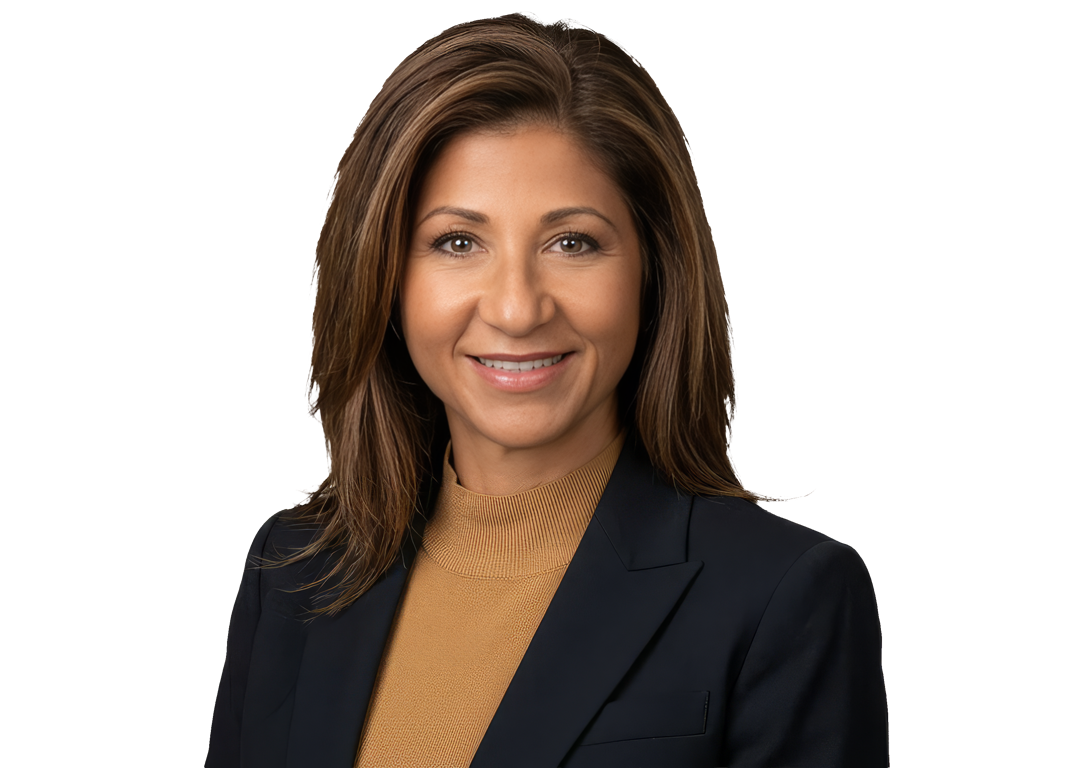
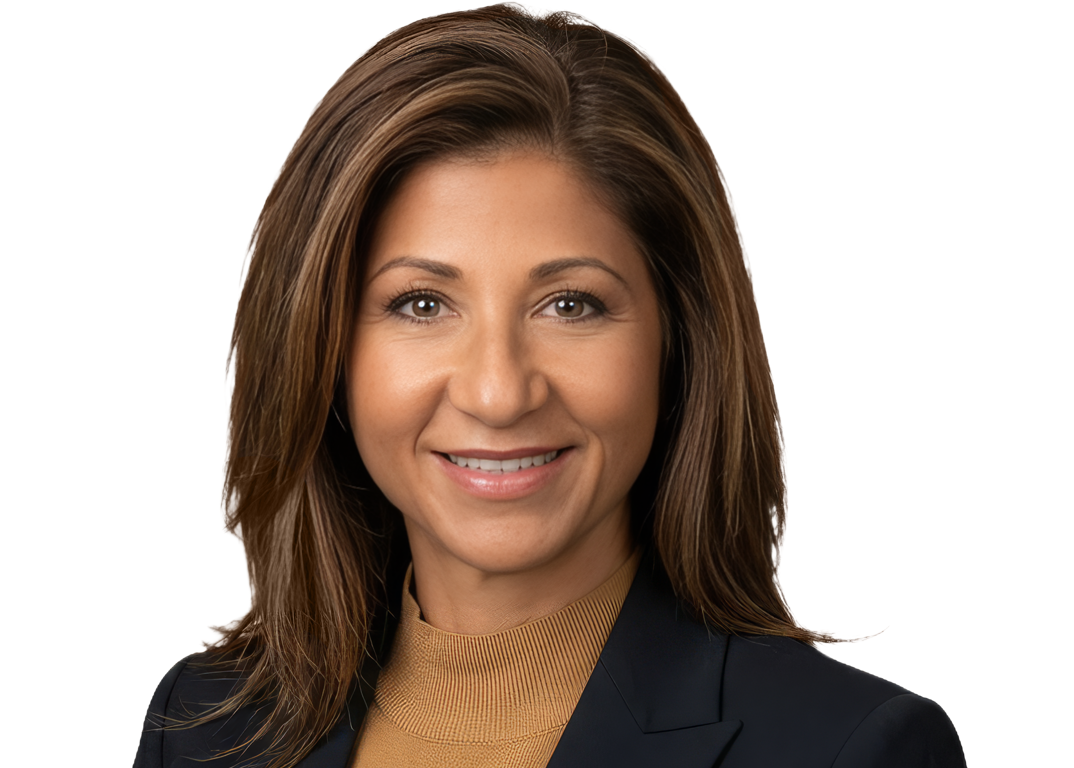
Update contact card spacing & Mary photo asset

diff --git a/src/components/HeroVideoPlayer.tsx b/src/components/HeroVideoPlayer.tsx
@@ -2,6 +2,8 @@
 "use client";
 
 import { useState, useRef, useEffect, useCallback, useSyncExternalStore, useMemo } from "react";
+import gsap from "gsap";
+import { ScrollTrigger } from "gsap/ScrollTrigger";
 const emptySubscribe = () => () => { };
 
 // Safe SSR-compatible desktop media query using useSyncExternalStore
@@ -54,6 +56,13 @@ function hexToRgba(hex: string, alpha: number): string {
   const b = num & 255;
   return `rgba(${r}, ${g}, ${b}, ${alpha.toFixed(2)})`;
 }
+
+const PARALLAX_PRESETS = [
+  { name: "Subtle", range: 6 },
+  { name: "Medium", range: 14 },
+  { name: "Dramatic", range: 22 },
+  { name: "Extreme", range: 30 },
+];
 
 const GRADIENT_PRESETS = [
   { name: "My Custom Choice", height: 46, opacity: 0.95, midstop: 37, color: "#000000" },
@@ -120,6 +129,19 @@ export default function HeroVideoPlayer({ children }: { children?: ReactNode }) 
   const [isGradUiOpen, setIsGradUiOpen] = useState(false);
   const [gradCopied, setGradCopied] = useState(false);
 
+  // ── Parallax Customizer states ───────────────────────────────────────────
+  // range: how far the background video drifts (± yPercent) as the hero
+  // scrolls through the viewport. scrub: how much the drift lags behind the
+  // actual scroll position (0 = instant, higher = smoother/laggier).
+  // foreground: when on, the thumbs/vinyl row drifts the opposite direction
+  // at half the range for a stronger sense of layered depth.
+  const [pxRange, setPxRange] = useState(14);
+  const [pxScrub, setPxScrub] = useState(0.6);
+  const [pxForeground, setPxForeground] = useState(true);
+  const [isPxUiOpen, setIsPxUiOpen] = useState(false);
+  const [pxCopied, setPxCopied] = useState(false);
+  const foregroundRef = useRef<HTMLDivElement>(null);
+
   useEffect(() => {
     const savedColor = localStorage.getItem("7h_tint_color");
     const savedOpacity = localStorage.getItem("7h_tint_opacity");
@@ -139,6 +161,15 @@ export default function HeroVideoPlayer({ children }: { children?: ReactNode }) 
     if (savedGradO) setGradOpacity(parseFloat(savedGradO));
     if (savedGradM) setGradMidstop(parseFloat(savedGradM));
     if (savedGradC) setGradColor(savedGradC);
+
+    // Load parallax settings
+    const savedPxRange = localStorage.getItem("7h_hero_parallax_range");
+    const savedPxScrub = localStorage.getItem("7h_hero_parallax_scrub");
+    const savedPxFg = localStorage.getItem("7h_hero_parallax_fg");
+
+    if (savedPxRange) setPxRange(parseFloat(savedPxRange));
+    if (savedPxScrub) setPxScrub(parseFloat(savedPxScrub));
+    if (savedPxFg) setPxForeground(savedPxFg === "true");
   }, []);
 
   const updateGradHeight = (h: number) => {
@@ -163,6 +194,31 @@ export default function HeroVideoPlayer({ children }: { children?: ReactNode }) 
     navigator.clipboard.writeText(cssText);
     setGradCopied(true);
   };
+
+  const updatePxRange = (r: number) => {
+    setPxRange(r);
+    localStorage.setItem("7h_hero_parallax_range", r.toString());
+  };
+  const updatePxScrub = (s: number) => {
+    setPxScrub(s);
+    localStorage.setItem("7h_hero_parallax_scrub", s.toString());
+  };
+  const updatePxForeground = (on: boolean) => {
+    setPxForeground(on);
+    localStorage.setItem("7h_hero_parallax_fg", on.toString());
+  };
+
+  const copyPxSettings = () => {
+    const snippet = `// Hero parallax settings\nrange: ${pxRange}, // yPercent amplitude (background drift)\nscrub: ${pxScrub}, // scroll-smoothing lag\nforegroundCounterParallax: ${pxForeground},`;
+    navigator.clipboard.writeText(snippet);
+    setPxCopied(true);
+  };
+
+  useEffect(() => {
+    if (!pxCopied) return;
+    const t = setTimeout(() => setPxCopied(false), 2000);
+    return () => clearTimeout(t);
+  }, [pxCopied]);
 
   const [VinylComp, setVinylComp] = useState<ComponentType<any> | null>(null);
   const [YTComp, setYTComp] = useState<ComponentType<any> | null>(null);
@@ -341,6 +397,76 @@ export default function HeroVideoPlayer({ children }: { children?: ReactNode }) 
     };
   }, [isYouTube, videoSrc]);
 
+  // ── Parallax: background video drifts slower than the page as you scroll ────
+  // Desktop-only (matches the perf gating used elsewhere in this component) and
+  // respects prefers-reduced-motion. Depth, smoothing, and the foreground
+  // counter-drift are all live-tunable via the Parallax Customizer panel below
+  // (pxRange / pxScrub / pxForeground), so this effect re-runs whenever those
+  // change. The video's scale grows with pxRange so the translate range never
+  // exposes empty edges inside the overflow-hidden #hero section.
+  useEffect(() => {
+    if (typeof window === "undefined" || !isDesktop || isYouTube) return;
+    if (window.matchMedia("(prefers-reduced-motion: reduce)").matches) return;
+
+    const video = videoRef.current;
+    if (!video) return;
+
+    gsap.registerPlugin(ScrollTrigger);
+
+    // Extra space needed on each side of the video, as a fraction of its own
+    // height, is pxRange/100 (the max translate distance). A small buffer
+    // (1.05x) keeps the scaled edge from ever peeking into view.
+    const scale = 1 + (pxRange / 50) * 1.05;
+    const halfRange = pxRange / 2;
+
+    const ctx = gsap.context(() => {
+      // GSAP writes a single inline `transform`, which would otherwise clobber
+      // the Tailwind `scale-[1.3]` fallback class (inline style always wins
+      // over the stylesheet rule). Keeping scale in both the "from" and "to"
+      // tween values means GSAP owns the whole transform and the zoom never
+      // drops once this effect takes over.
+      gsap.fromTo(
+        video,
+        { yPercent: -pxRange, scale },
+        {
+          yPercent: pxRange,
+          scale,
+          ease: "none",
+          scrollTrigger: {
+            trigger: "#hero",
+            start: "top top",
+            end: "bottom top",
+            scrub: pxScrub,
+          },
+        }
+      );
+
+      // Foreground counter-drift: the thumbs/vinyl row moves the opposite
+      // direction at half the amplitude, so it visually separates from the
+      // background layer instead of scrolling in lockstep with it.
+      if (pxForeground && foregroundRef.current) {
+        gsap.fromTo(
+          foregroundRef.current,
+          { yPercent: halfRange },
+          {
+            yPercent: -halfRange,
+            ease: "none",
+            scrollTrigger: {
+              trigger: "#hero",
+              start: "top top",
+              end: "bottom top",
+              scrub: pxScrub,
+            },
+          }
+        );
+      }
+
+      ScrollTrigger.refresh();
+    });
+
+    return () => ctx.revert();
+  }, [isDesktop, isYouTube, videoSrc, pxRange, pxScrub, pxForeground]);
+
   const ctxValue: VideoSnapshotContextValue = useMemo(
     () => ({ snapshots }),
     [snapshots]
@@ -414,7 +540,7 @@ export default function HeroVideoPlayer({ children }: { children?: ReactNode }) 
           muted
           loop
           playsInline
-          className="absolute inset-0 w-full h-full object-cover z-0 pointer-events-none scale-[1.08]"
+          className="absolute inset-0 w-full h-full object-cover z-0 pointer-events-none scale-[1.3]"
         >
           <source src={videoSrc} type="video/mp4" />
           <track kind="captions" />
@@ -623,8 +749,151 @@ export default function HeroVideoPlayer({ children }: { children?: ReactNode }) 
         </div>
       )}
 
+      {/* ── Parallax Customizer Floating Panel (Dev/Tester Only) ── */}
+      {mounted && localStorage.getItem("7h_tint_tester") === "true" && (
+        <div className="absolute top-[160px] right-6 z-40 md:right-8 flex flex-col items-end">
+          {!isPxUiOpen ? (
+            <button aria-label="Action button"
+              onClick={() => setIsPxUiOpen(true)}
+              className="w-10 h-10 rounded-full bg-black/60 backdrop-blur-md border border-white/15 flex items-center justify-center cursor-pointer hover:bg-black/85 hover:scale-105 active:scale-95 transition-colors shadow-[0_4px_20px_rgba(0,0,0,0.4)] group"
+              title="Open Parallax Customizer"
+            >
+              <svg
+                width="18"
+                height="18"
+                viewBox="0 0 24 24"
+                fill="none"
+                stroke="currentColor"
+                strokeWidth="2"
+                strokeLinecap="round"
+                strokeLinejoin="round"
+                className="text-white/80 group-hover:text-[var(--color-accent)] transition-colors duration-300"
+              >
+                <polygon points="12 2 2 7 12 12 22 7 12 2" />
+                <polyline points="2 17 12 22 22 17" />
+                <polyline points="2 12 12 17 22 12" />
+              </svg>
+            </button>
+          ) : (
+            <div
+              className="w-[280px] bg-black/75 backdrop-blur-xl border border-white/10 p-4 shadow-[0_20px_50px_rgba(0,0,0,0.6)] flex flex-col gap-4 select-none animate-[scaleIn_0.2s_ease-out] text-left"
+            >
+              {/* Header */}
+              <div className="flex items-center justify-between border-b border-white/5 pb-2">
+                <div className="flex flex-col">
+                  <span className="font-[family-name:var(--font-rockstar)] text-[var(--font-size-2xs)] font-black uppercase tracking-wider  text-[var(--color-accent)]">
+                    Parallax Tester
+                  </span>
+                  <span className="text-[var(--font-size-4xs)] text-white/40 uppercase font-semibold">
+                    Tune the hero scroll depth
+                  </span>
+                </div>
+                <button aria-label="Action button"
+                  onClick={() => setIsPxUiOpen(false)}
+                  className="w-6 h-6 rounded-full hover:bg-white/10 flex items-center justify-center text-white/50 hover:text-white transition-colors cursor-pointer"
+                >
+                  <svg width="14" height="14" viewBox="0 0 24 24" fill="none" stroke="currentColor" strokeWidth="2.5"><line x1="18" y1="6" x2="6" y2="18"></line><line x1="6" y1="6" x2="18" y2="18"></line></svg>
+                </button>
+              </div>
+
+              {/* Presets */}
+              <div className="space-y-1.5">
+                <span className="text-[var(--font-size-3xs)] font-extrabold text-white/45 uppercase tracking-wider block">Presets</span>
+                <div className="flex flex-wrap gap-1.5">
+                  {PARALLAX_PRESETS.map((preset) => (
+                    <button aria-label="Action button"
+                      key={preset.name}
+                      onClick={() => updatePxRange(preset.range)}
+                      className={`px-2 py-1 text-[var(--font-size-4xs)] font-black uppercase rounded border transition-colors cursor-pointer ${pxRange === preset.range
+                        ? "bg-[var(--color-purple-primary)] border-[var(--color-border-purple)] text-[var(--color-text-main)] shadow-[0_0_8px_var(--color-purple-glow)]"
+                        : "bg-white/5 border-white/5 text-white/60 hover:bg-white/10 hover:border-white/10"
+                        }`}
+                    >
+                      {preset.name}
+                    </button>
+                  ))}
+                </div>
+              </div>
+
+              {/* Depth (range) Slider */}
+              <div className="space-y-1.5">
+                <div className="flex justify-between text-[var(--font-size-3xs)] font-extrabold text-white/45 uppercase tracking-wider">
+                  <span>Depth</span>
+                  <span className=" text-[var(--color-accent)] font-mono font-black">±{pxRange}%</span>
+                </div>
+                <input aria-label="Input field"
+                  type="range"
+                  min="0"
+                  max="30"
+                  step="1"
+                  value={pxRange}
+                  onChange={(e) => updatePxRange(parseFloat(e.target.value))}
+                  className="w-full accent-amber-500 bg-white/10 h-1.5 rounded-lg appearance-none cursor-pointer"
+                />
+              </div>
+
+              {/* Scrub (smoothing) Slider */}
+              <div className="space-y-1.5">
+                <div className="flex justify-between text-[var(--font-size-3xs)] font-extrabold text-white/45 uppercase tracking-wider">
+                  <span>Smoothing</span>
+                  <span className=" text-[var(--color-accent)] font-mono font-black">{pxScrub.toFixed(1)}s</span>
+                </div>
+                <input aria-label="Input field"
+                  type="range"
+                  min="0"
+                  max="2"
+                  step="0.1"
+                  value={pxScrub}
+                  onChange={(e) => updatePxScrub(parseFloat(e.target.value))}
+                  className="w-full accent-amber-500 bg-white/10 h-1.5 rounded-lg appearance-none cursor-pointer"
+                />
+              </div>
+
+              {/* Foreground Counter-Drift Toggle */}
+              <button aria-label="Action button"
+                onClick={() => updatePxForeground(!pxForeground)}
+                className={`w-full flex items-center justify-between px-3 py-2 rounded border transition-colors cursor-pointer ${pxForeground
+                  ? "bg-[var(--color-purple-primary)]/20 border-[var(--color-border-purple)] text-white"
+                  : "bg-white/5 border-white/5 text-white/60 hover:bg-white/10"
+                  }`}
+              >
+                <span className="text-[var(--font-size-3xs)] font-extrabold uppercase tracking-wider">Foreground Counter-Drift</span>
+                <span className={`w-8 h-4 rounded-full relative transition-colors ${pxForeground ? "bg-[var(--color-accent)]" : "bg-white/20"}`}>
+                  <span className={`absolute top-0.5 w-3 h-3 rounded-full bg-white transition-transform ${pxForeground ? "translate-x-4" : "translate-x-0.5"}`} />
+                </span>
+              </button>
+
+              {/* Active Values HUD */}
+              <div className="bg-white/[0.02] border border-white/5 rounded-lg p-2 text-[var(--font-size-4xs)] font-mono text-white/40 space-y-0.5">
+                <div>Depth: <span className="text-white font-bold">±{pxRange}%</span></div>
+                <div>Smoothing: <span className="text-white font-bold">{pxScrub.toFixed(1)}s</span></div>
+                <div>Foreground drift: <span className="text-white font-bold">{pxForeground ? "on" : "off"}</span></div>
+              </div>
+
+              {/* Copy Settings Button */}
+              <button aria-label="Action button"
+                onClick={copyPxSettings}
+                className="w-full py-2 bg-gradient-to-r from-amber-500 to-orange-600 hover:from-amber-600 hover:to-orange-700 text-black font-black text-[var(--font-size-2xs)] uppercase tracking-widest transition-colors shadow-[0_4px_12px_rgba(147, 51, 234,0.2)] active:scale-97 flex items-center justify-center gap-1.5 cursor-pointer"
+              >
+                {pxCopied ? (
+                  <>
+                    <svg width="10" height="10" viewBox="0 0 24 24" fill="none" stroke="currentColor" strokeWidth="3" strokeLinecap="round" strokeLinejoin="round" className="animate-[scaleIn_0.15s_ease-out]"><polyline points="20 6 9 17 4 12" /></svg>
+                    Copied!
+                  </>
+                ) : (
+                  <>
+                    <svg width="10" height="10" viewBox="0 0 24 24" fill="none" stroke="currentColor" strokeWidth="2.5" strokeLinecap="round" strokeLinejoin="round"><rect x="9" y="9" width="13" height="13" rx="2" ry="2" /><path d="M5 15H4a2 2 0 0 1-2-2V4a2 2 0 0 1 2-2h9a2 2 0 0 1 2 2v1" /></svg>
+                    Copy Settings
+                  </>
+                )}
+              </button>
+            </div>
+          )}
+        </div>
+      )}
+
       {/* ── Bottom row: live stream thumbs on left + vinyl player on right ── */}
-      <div className="relative z-[3] flex flex-col md:flex-row items-stretch md:items-end justify-between gap-6 w-full mt-auto">
+      <div ref={foregroundRef} className="relative z-[3] flex flex-col md:flex-row items-stretch md:items-end justify-between gap-6 w-full mt-auto">
         {/* Live stream small thumbnails */}
         <div className="relative z-30 flex justify-start ml-8">
           {children}

diff --git a/src/app/contact/ContactClient.tsx b/src/app/contact/ContactClient.tsx
@@ -71,7 +71,7 @@ export default function ContactClient({ contacts }: { contacts: ContactItem[] })
           </div>
 
           {/* Contact Cards List (1 Column Stacked) */}
-          <div className="space-y-4 max-w-2xl">
+          <div className="space-y-3 max-w-2xl">
             {contacts.map((contact) => {
               const photoForThisCard = getPhotoForCategory(contact);
               const isSelected = activePhoto === photoForThisCard;
@@ -81,7 +81,7 @@ export default function ContactClient({ contacts }: { contacts: ContactItem[] })
                   key={(contact.email || "") + (contact.category || "") + (contact.name || "")}
                   onMouseEnter={() => setActivePhoto(photoForThisCard)}
                   onClick={() => setActivePhoto(photoForThisCard)}
-                  className={`pb-4 border-b border-white/10 ${isSelected
+                  className={`pb-2 border-b border-white/10 ${isSelected
                     ? ""
                     : ""
                     }`}
